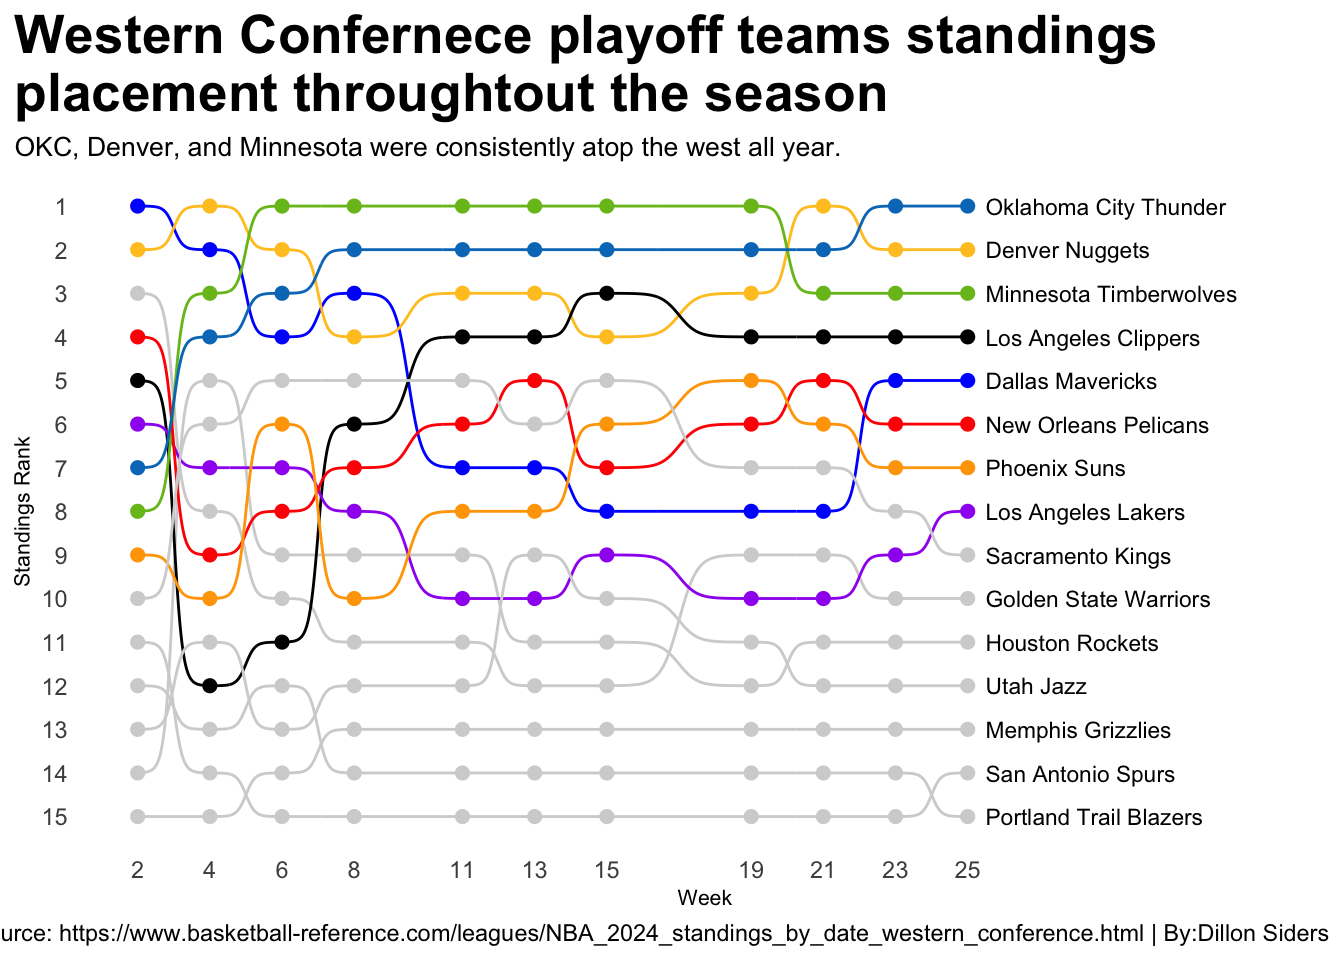
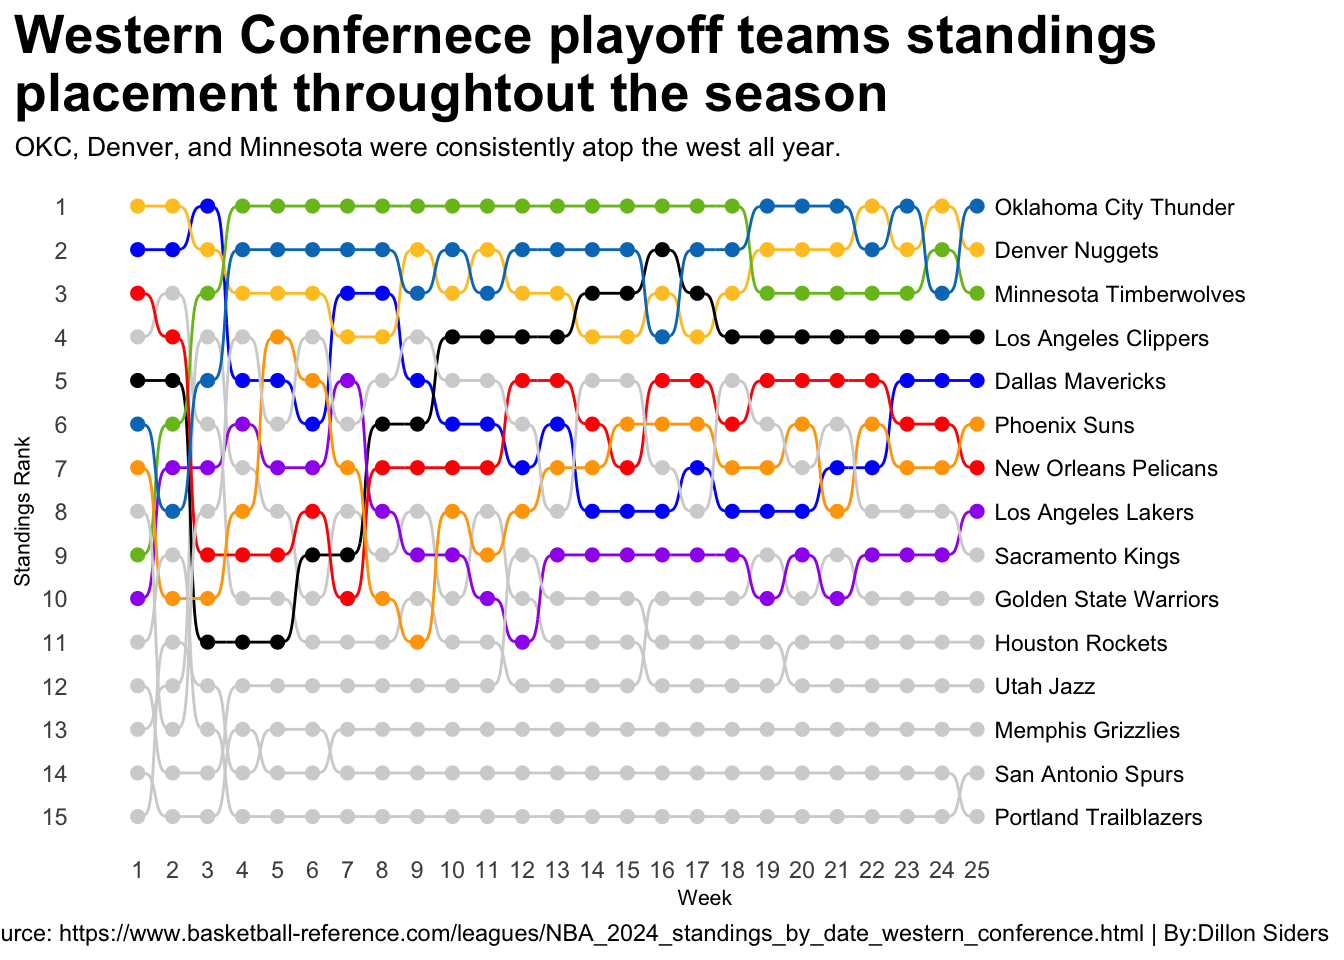
thunder post fixed

Changed region(s): [[0.0938, 0.1875, 0.9375, 0.9375]]

diff --git a/posts/thunder-true-title-contenders/index.html b/posts/thunder-true-title-contenders/index.html
@@ -197,14 +197,14 @@ pre > code.sourceCode > span > a:first-child::before { text-decoration: underlin
 <span id="cb1-2"><a href="#cb1-2" aria-hidden="true" tabindex="-1"></a><span class="fu">library</span>(hoopR)</span>
 <span id="cb1-3"><a href="#cb1-3" aria-hidden="true" tabindex="-1"></a><span class="fu">library</span>(ggbump)</span>
 <span id="cb1-4"><a href="#cb1-4" aria-hidden="true" tabindex="-1"></a></span>
-<span id="cb1-5"><a href="#cb1-5" aria-hidden="true" tabindex="-1"></a>recordbyweek <span class="ot">&lt;-</span> <span class="fu">read.csv</span>(<span class="st">"nba_record_by_week.csv"</span>)</span>
+<span id="cb1-5"><a href="#cb1-5" aria-hidden="true" tabindex="-1"></a>recordbyweek <span class="ot">&lt;-</span> <span class="fu">read.csv</span>(<span class="st">"nba_standings_by_week.csv"</span>)</span>
 <span id="cb1-6"><a href="#cb1-6" aria-hidden="true" tabindex="-1"></a></span>
 <span id="cb1-7"><a href="#cb1-7" aria-hidden="true" tabindex="-1"></a><span class="fu">ggplot</span>() <span class="sc">+</span></span>
 <span id="cb1-8"><a href="#cb1-8" aria-hidden="true" tabindex="-1"></a>  <span class="fu">geom_bump</span>(<span class="at">data=</span>recordbyweek, <span class="fu">aes</span>(<span class="at">x=</span>Week, <span class="at">y=</span>Rank, <span class="at">color=</span>Team)) <span class="sc">+</span></span>
 <span id="cb1-9"><a href="#cb1-9" aria-hidden="true" tabindex="-1"></a>  <span class="fu">geom_point</span>(<span class="at">data=</span>recordbyweek, <span class="fu">aes</span>(<span class="at">x=</span>Week, <span class="at">y=</span>Rank, <span class="at">color=</span>Team), <span class="at">size=</span><span class="dv">2</span>) <span class="sc">+</span></span>
 <span id="cb1-10"><a href="#cb1-10" aria-hidden="true" tabindex="-1"></a>  <span class="fu">geom_text</span>(<span class="at">data =</span> recordbyweek <span class="sc">|&gt;</span> <span class="fu">filter</span>(Week <span class="sc">==</span> <span class="fu">max</span>(Week)), <span class="fu">aes</span>(<span class="at">x =</span> Week <span class="sc">+</span> .<span class="dv">5</span>, <span class="at">y=</span>Rank, <span class="at">label =</span> Team), <span class="at">size =</span> <span class="dv">3</span>, <span class="at">hjust =</span> <span class="dv">0</span>) <span class="sc">+</span></span>
 <span id="cb1-11"><a href="#cb1-11" aria-hidden="true" tabindex="-1"></a>  <span class="fu">scale_color_manual</span>(<span class="at">values=</span><span class="fu">c</span>(<span class="st">"blue"</span>, <span class="st">"#FFC627"</span>, <span class="st">"lightgrey"</span>, <span class="st">"lightgrey"</span>, <span class="st">"black"</span>, <span class="st">"purple"</span>, <span class="st">"lightgrey"</span>, <span class="st">"#78BE20"</span>, <span class="st">"red"</span>, <span class="st">"#007AC1"</span>, <span class="st">"orange"</span>, <span class="st">"lightgrey"</span>, <span class="st">"lightgrey"</span>, <span class="st">"lightgrey"</span>, <span class="st">"lightgrey"</span>, <span class="st">"lightgrey"</span>)) <span class="sc">+</span></span>
-<span id="cb1-12"><a href="#cb1-12" aria-hidden="true" tabindex="-1"></a>  <span class="fu">scale_x_continuous</span>(<span class="at">breaks =</span> <span class="fu">c</span>(<span class="dv">2</span>,<span class="dv">4</span>,<span class="dv">6</span>,<span class="dv">8</span>,<span class="dv">11</span>,<span class="dv">13</span>,<span class="dv">15</span>,<span class="dv">19</span>,<span class="dv">21</span>,<span class="dv">23</span>,<span class="dv">25</span>), <span class="at">limits =</span> <span class="fu">c</span>(<span class="dv">2</span>, <span class="fl">33.45</span>)) <span class="sc">+</span></span>
+<span id="cb1-12"><a href="#cb1-12" aria-hidden="true" tabindex="-1"></a>  <span class="fu">scale_x_continuous</span>(<span class="at">breaks =</span> <span class="fu">c</span>(<span class="dv">1</span>,<span class="dv">2</span>,<span class="dv">3</span>,<span class="dv">4</span>,<span class="dv">5</span>,<span class="dv">6</span>,<span class="dv">7</span>,<span class="dv">8</span>,<span class="dv">9</span>,<span class="dv">10</span>,<span class="dv">11</span>,<span class="dv">12</span>,<span class="dv">13</span>,<span class="dv">14</span>,<span class="dv">15</span>,<span class="dv">16</span>,<span class="dv">17</span>,<span class="dv">18</span>,<span class="dv">19</span>,<span class="dv">20</span>,<span class="dv">21</span>,<span class="dv">22</span>,<span class="dv">23</span>,<span class="dv">24</span>,<span class="dv">25</span>), <span class="at">limits =</span> <span class="fu">c</span>(<span class="dv">1</span>, <span class="fl">33.45</span>)) <span class="sc">+</span></span>
 <span id="cb1-13"><a href="#cb1-13" aria-hidden="true" tabindex="-1"></a>  <span class="fu">scale_y_reverse</span>(<span class="at">breaks=</span><span class="fu">c</span>(<span class="dv">1</span>,<span class="dv">2</span>,<span class="dv">3</span>,<span class="dv">4</span>,<span class="dv">5</span>,<span class="dv">6</span>,<span class="dv">7</span>,<span class="dv">8</span>,<span class="dv">9</span>,<span class="dv">10</span>,<span class="dv">11</span>,<span class="dv">12</span>,<span class="dv">13</span>,<span class="dv">14</span>,<span class="dv">15</span>)) <span class="sc">+</span></span>
 <span id="cb1-14"><a href="#cb1-14" aria-hidden="true" tabindex="-1"></a>  <span class="fu">labs</span>(</span>
 <span id="cb1-15"><a href="#cb1-15" aria-hidden="true" tabindex="-1"></a>    <span class="at">x=</span><span class="st">"Week"</span>,</span>

diff --git a/index.html b/index.html
@@ -205,7 +205,7 @@ window.Quarto = {
 
 <div class="quarto-listing quarto-listing-container-default" id="listing-listing">
 <div class="list quarto-listing-default">
-<div class="quarto-post image-right" data-index="0" data-categories="" data-listing-date-sort="1714885200000" data-listing-file-modified-sort="1714938883684" data-listing-date-modified-sort="NaN" data-listing-reading-time-sort="9" data-listing-word-count-sort="1697">
+<div class="quarto-post image-right" data-index="0" data-categories="" data-listing-date-sort="1714885200000" data-listing-file-modified-sort="1716213779448" data-listing-date-modified-sort="NaN" data-listing-reading-time-sort="9" data-listing-word-count-sort="1697">
 <div class="thumbnail">
 <p><a href="./posts/thunder-true-title-contenders/index.html" class="no-external"></a></p><a href="./posts/thunder-true-title-contenders/index.html" class="no-external">
 <p><img src="./posts/thunder-true-title-contenders/image.png" class="thumbnail-image"></p>
